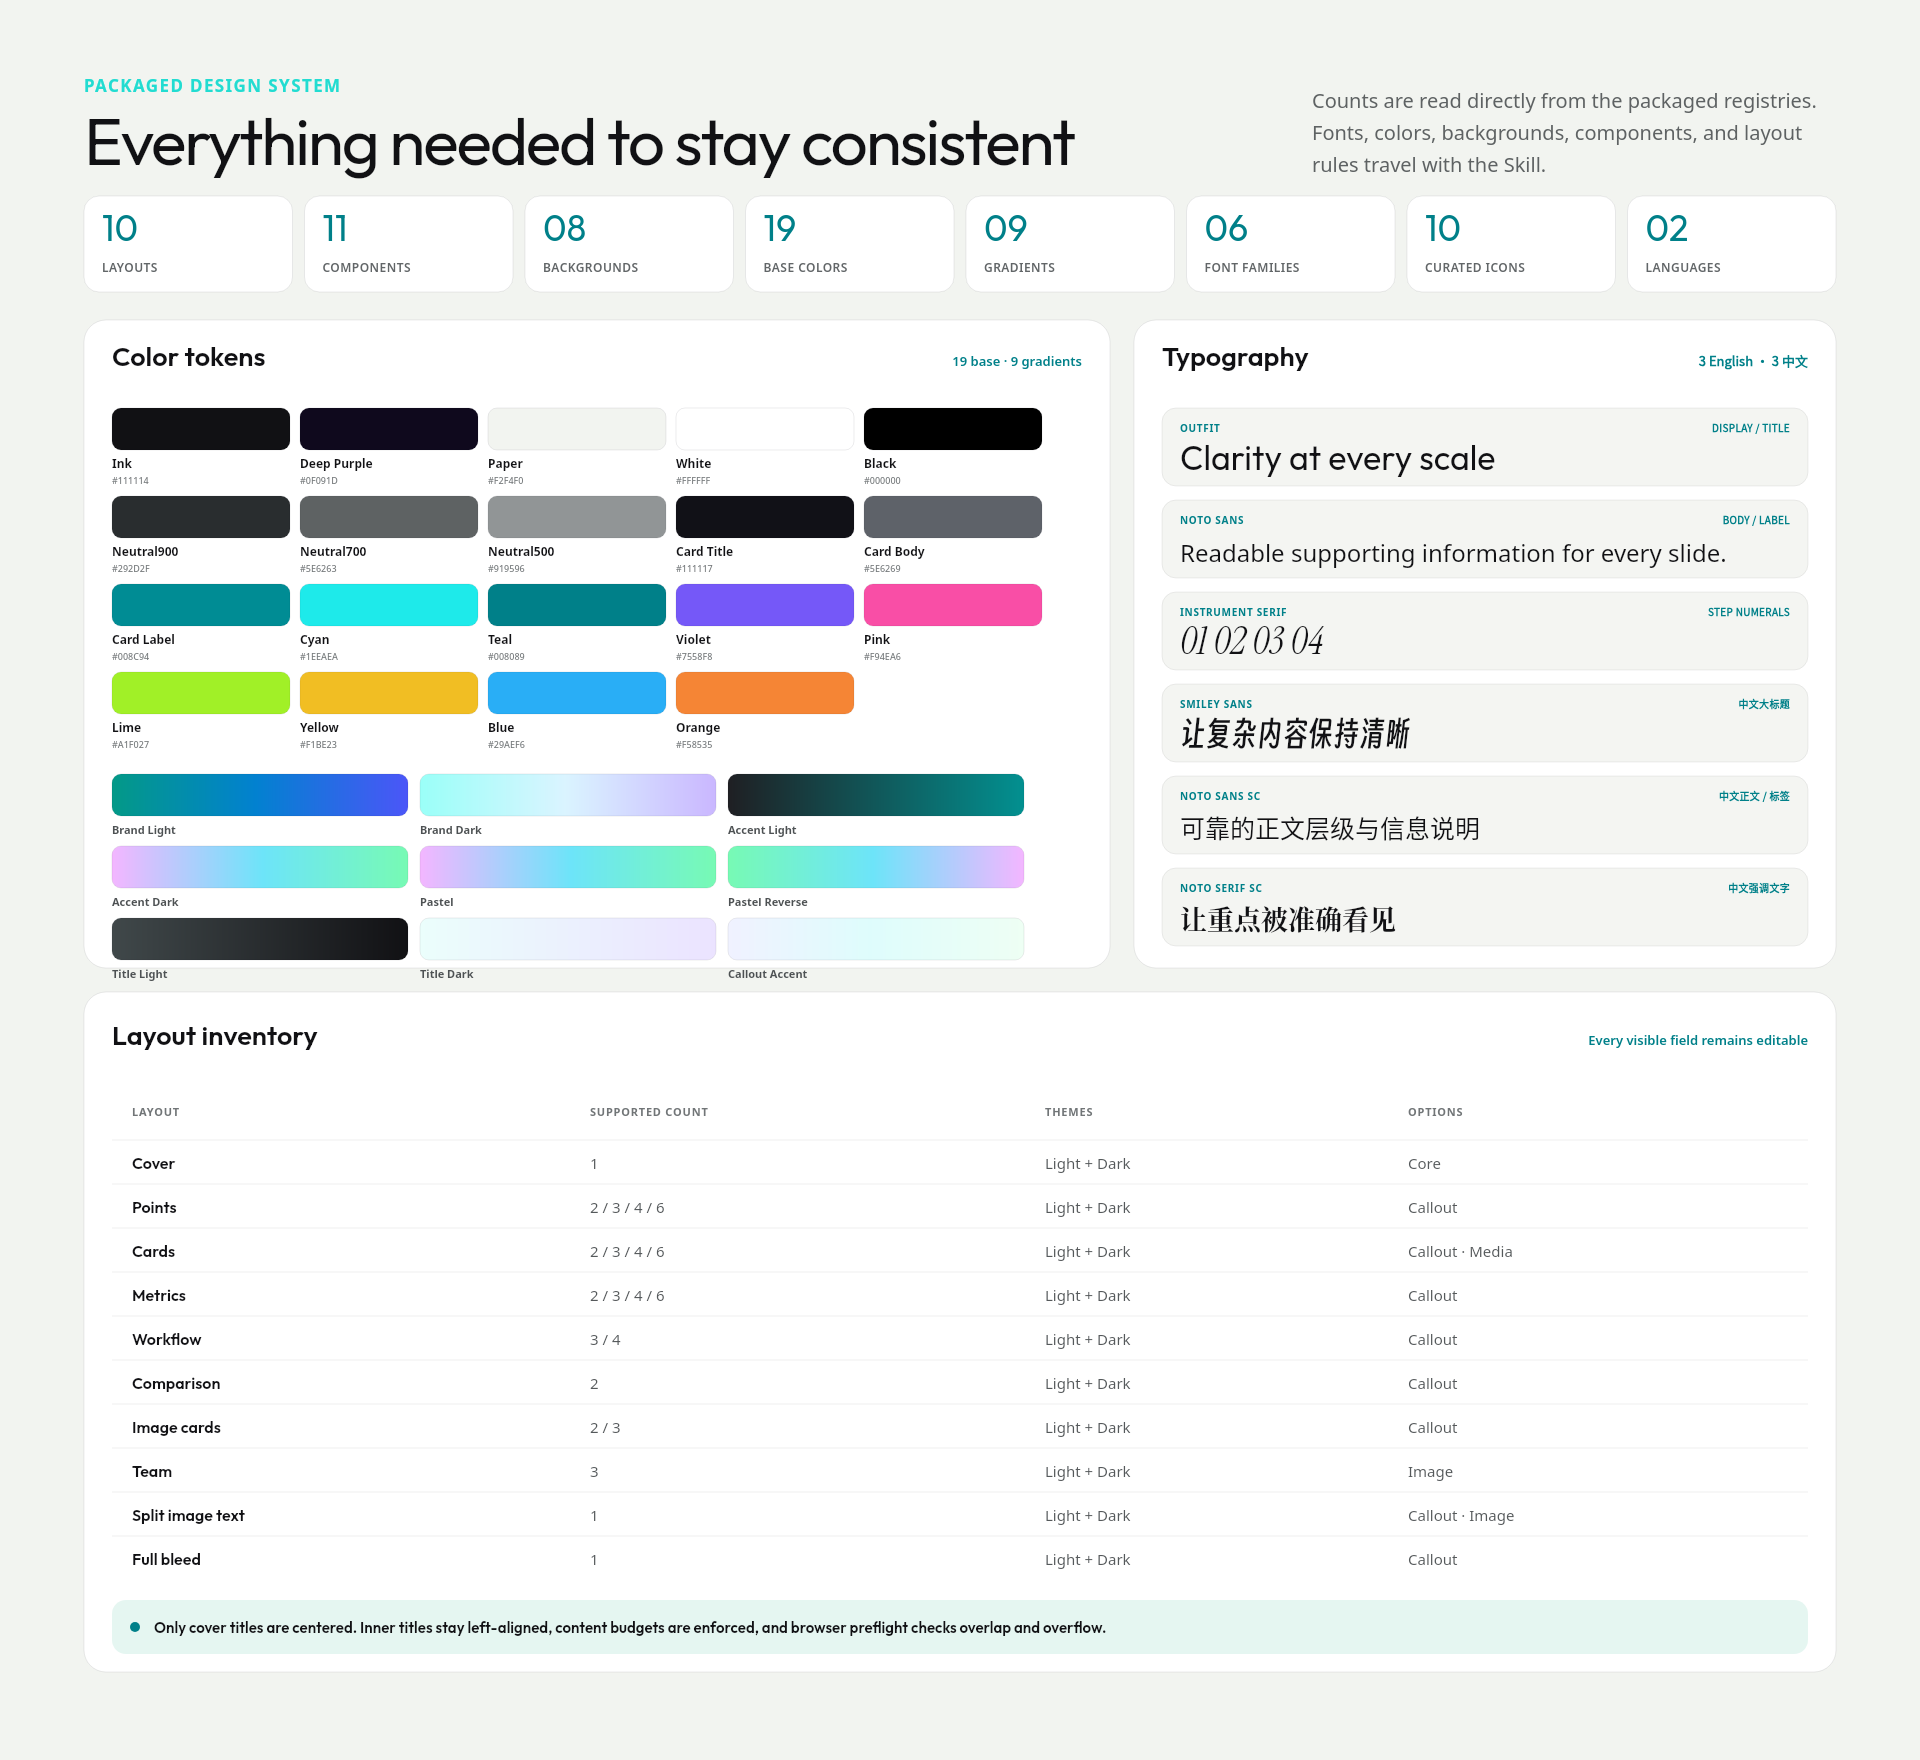
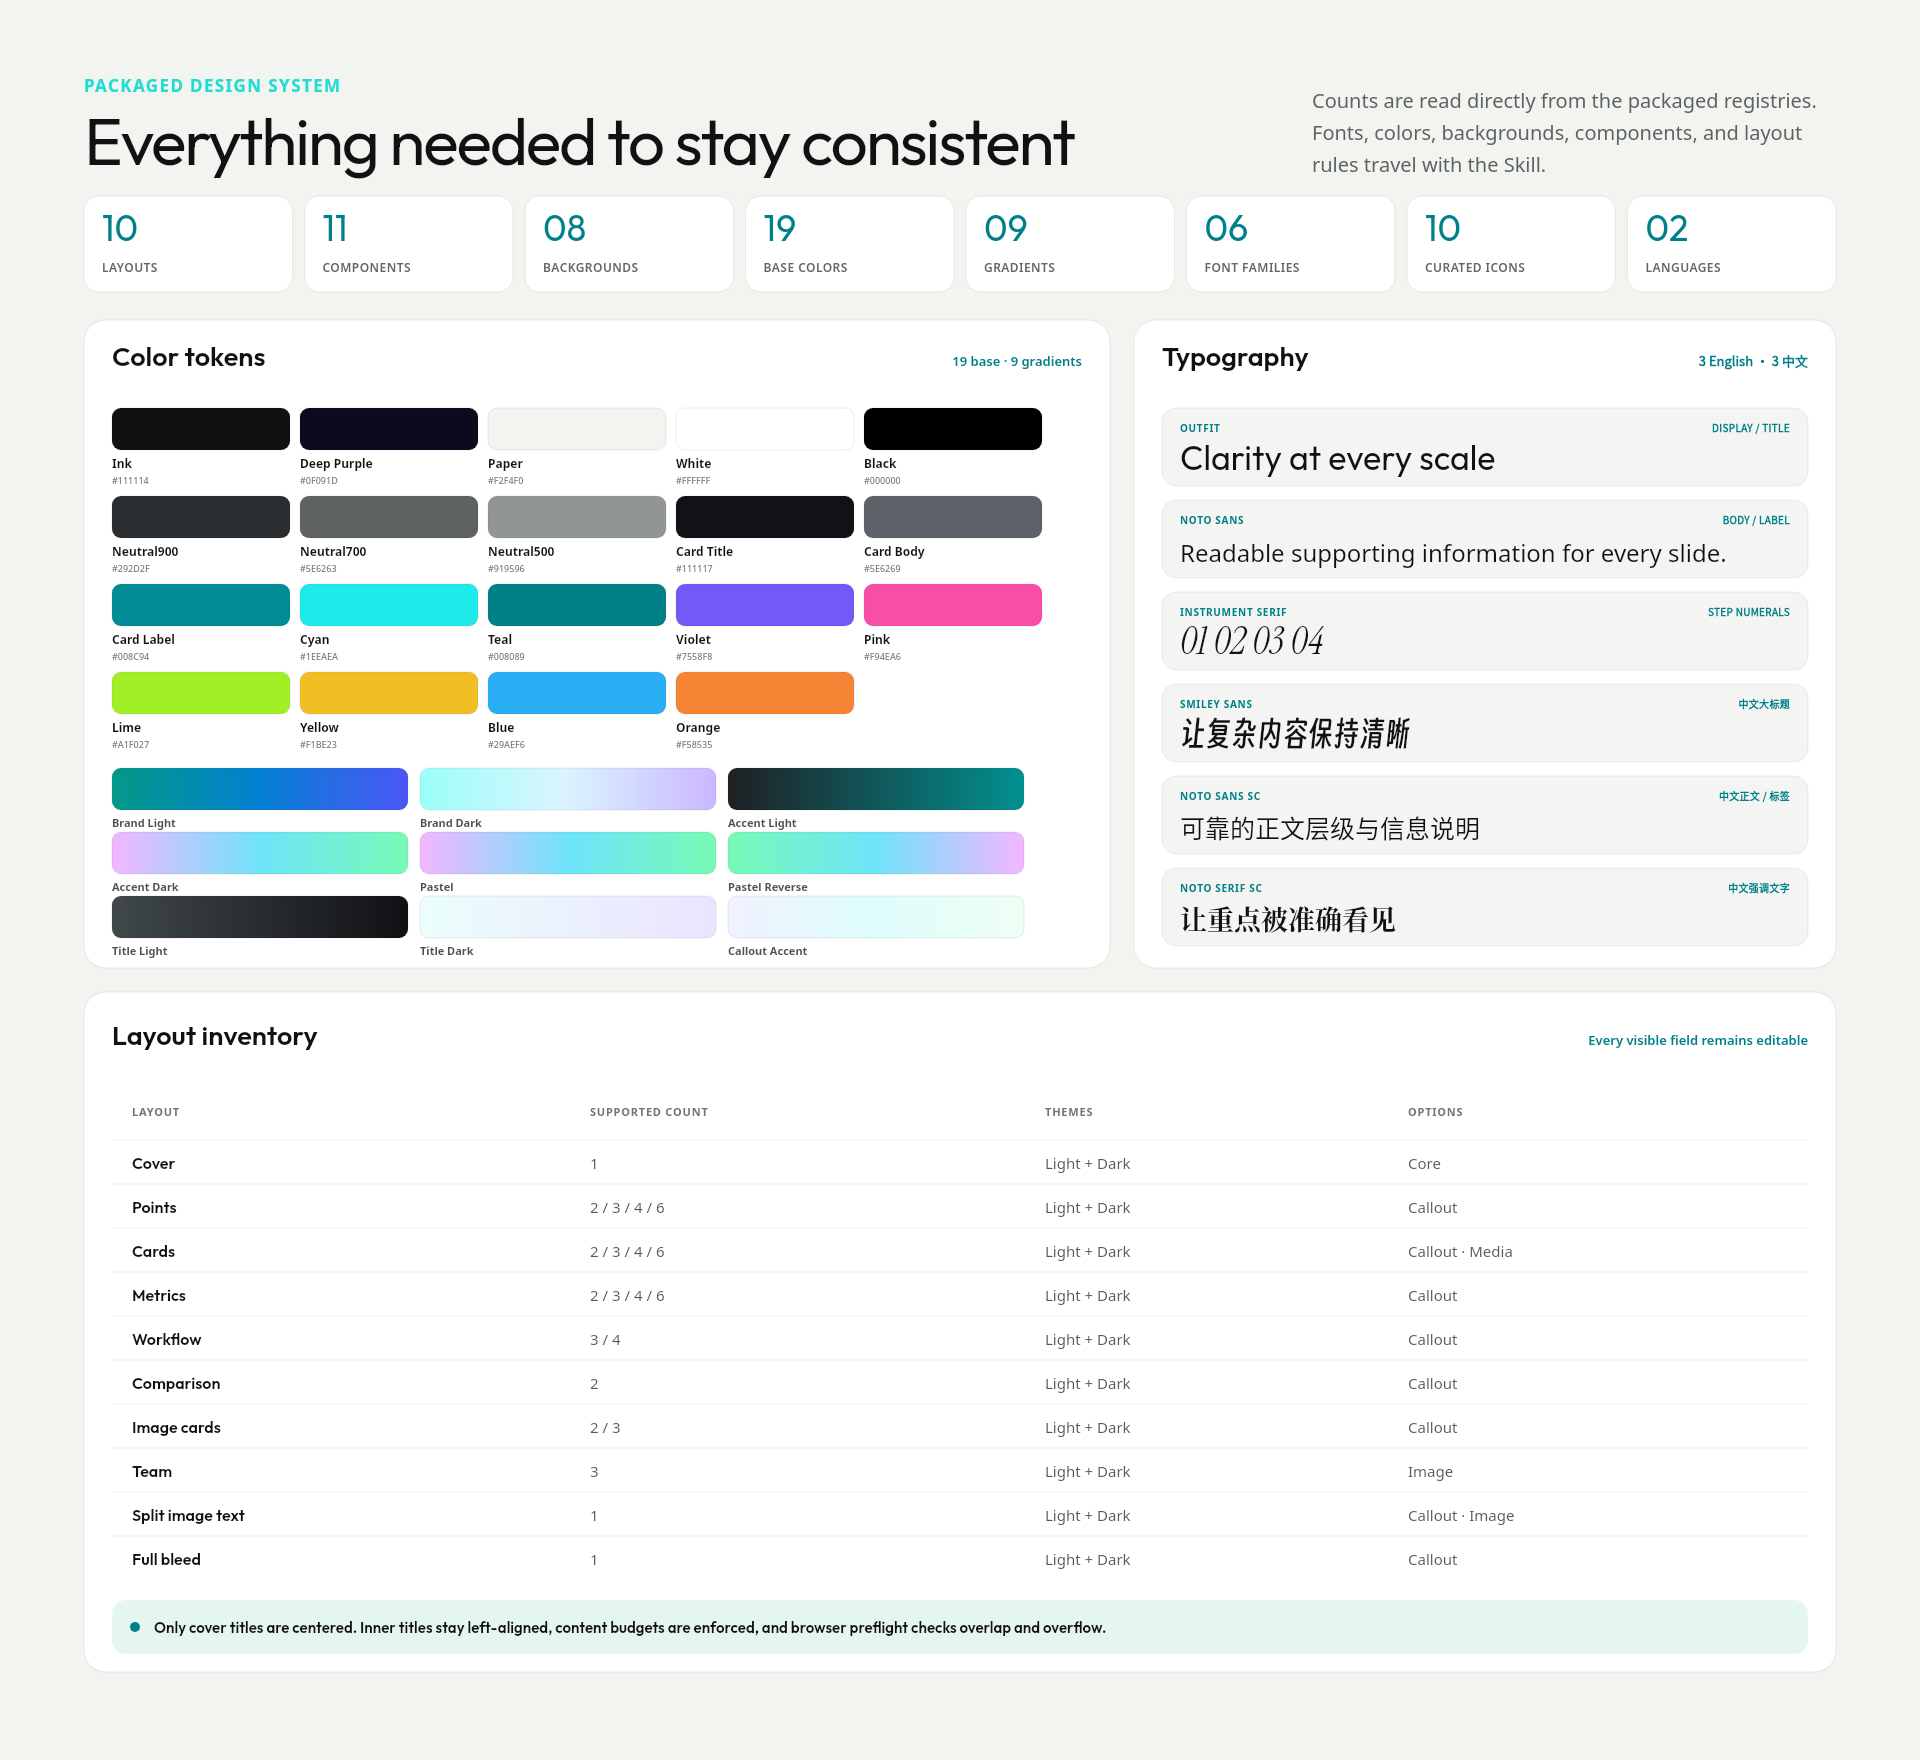
fix foundation token preview bounds

Changed region(s): [[0.0625, 0.4375, 0.5312, 0.5625]]

diff --git a/references/quality-gates.md b/references/quality-gates.md
@@ -278,6 +278,7 @@ Verify:
 - 8 registered Lossless WebP background variants and no committed compiled PPTX duplicates;
 - 3 Lossless WebP texture/source images;
 - 4 Lossless WebP README/Hero/Showcase previews;
+- Foundation preview keeps every base-color and gradient swatch plus its label inside the white Color tokens panel; the preview renderer's overlap/overflow guard passes;
 - 4 logos;
 - 10 icons × 2 themes;
 - `node scripts/normalize-icons.mjs --check` passes for all 20 component-only SVGs and finds no Figma canvas/background nodes;
